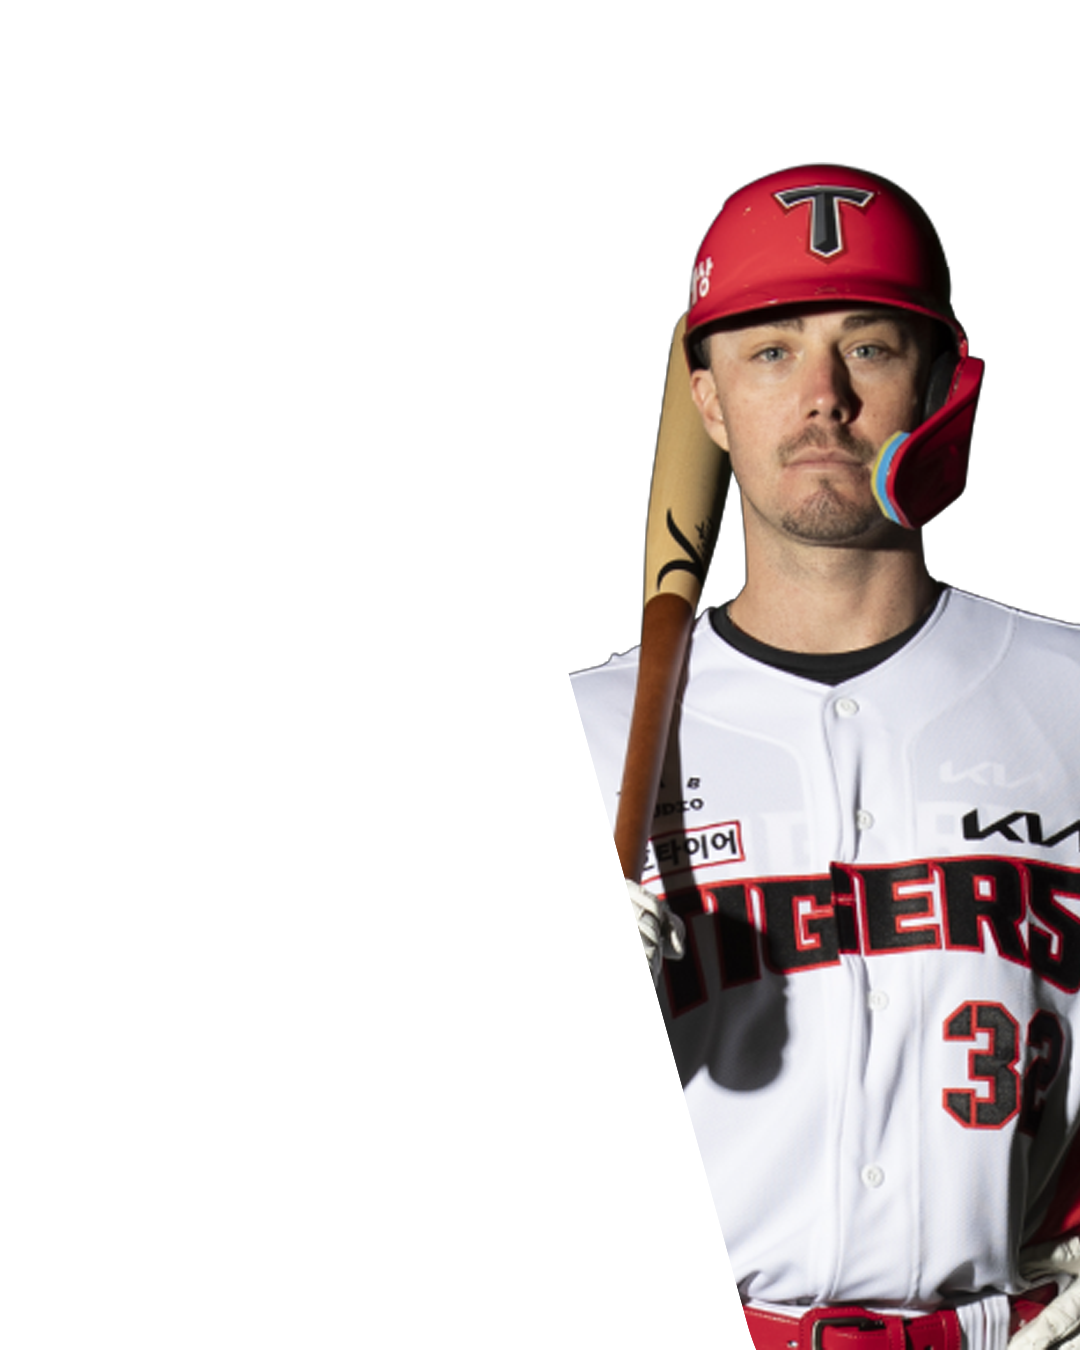
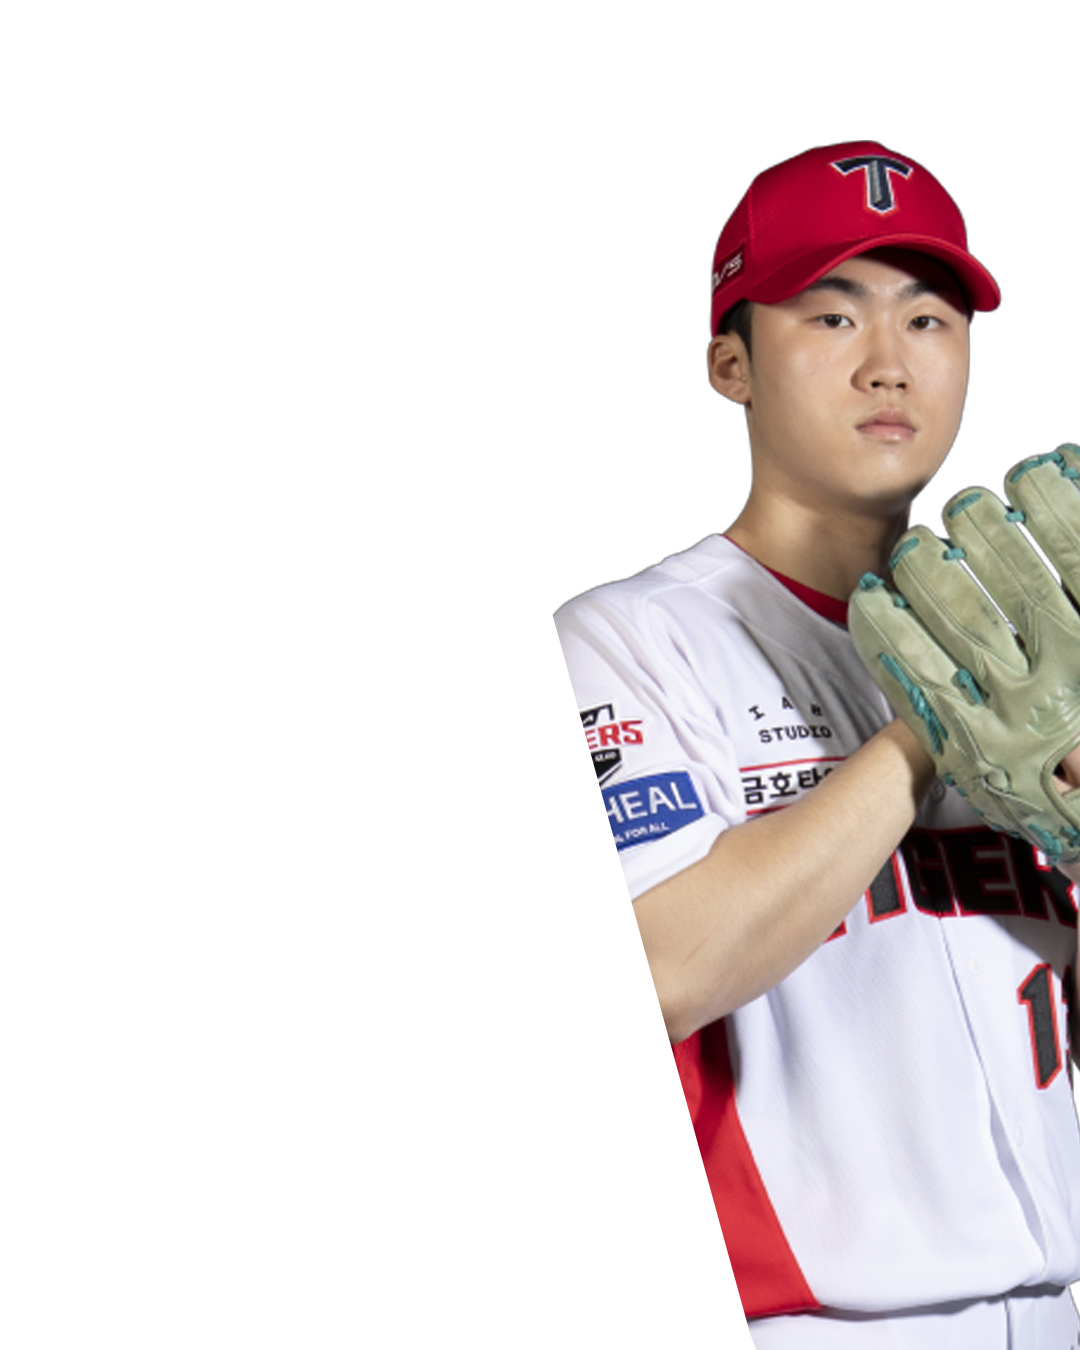
Update number 32 player to Jihyun

Changed region(s): [[0.4889, 0.0933, 1.0, 1.0]]

diff --git a/constants.js b/constants.js
@@ -22,7 +22,7 @@ export const PLAYER_NUMBER_BY_NAME = {
   '이창진': 8, '정해원': 9, '김태형': 10, '조상우': 11, '정현창': 12, '윤영철': 13,
   '김규성': 14, '박재현': 15, '윤도현': 16, '김현수(17)': 17, '윤중현': 19, '이준영': 20,
   '김사윤': 21, '주효상': 22, '최정용': 23, '아데를린': 24, '한준수': 25, '카스트로': 26, '김호령': 27,
-  '이형범': 28, '변우혁': 29, '한승연': 31, '데일': 32, '올러': 33, '황대인': 34,
+  '이형범': 28, '변우혁': 29, '한승연': 31, '지현': 32, '올러': 33, '황대인': 34,
   '김석환': 35, '이호연': 36, '김민규': 37, '장재혁': 38, '최지민': 39,
   '네일': 40, '황동하': 41, '김태군': 42, '김건국': 43, '이태양': 44, '정찬화': 45,
   '김정엽': 46, '나성범': 47, '이의리': 48, '김범수': 49, '박상준': 50, '전상현': 51,
@@ -89,7 +89,7 @@ export const PLAYER_INFO_LIST = [
   { name: '정현창', positionGroup: '내야수' },
   { name: '윤도현', positionGroup: '내야수' },
   { name: '변우혁', positionGroup: '내야수' },
-  { name: '데일', positionGroup: '내야수' },
+  { name: '지현', positionGroup: '투수', playerId: '56633' },
   { name: '황대인', positionGroup: '내야수' },
   { name: '김민규', positionGroup: '내야수' },
   { name: '이창진', positionGroup: '외야수' },
